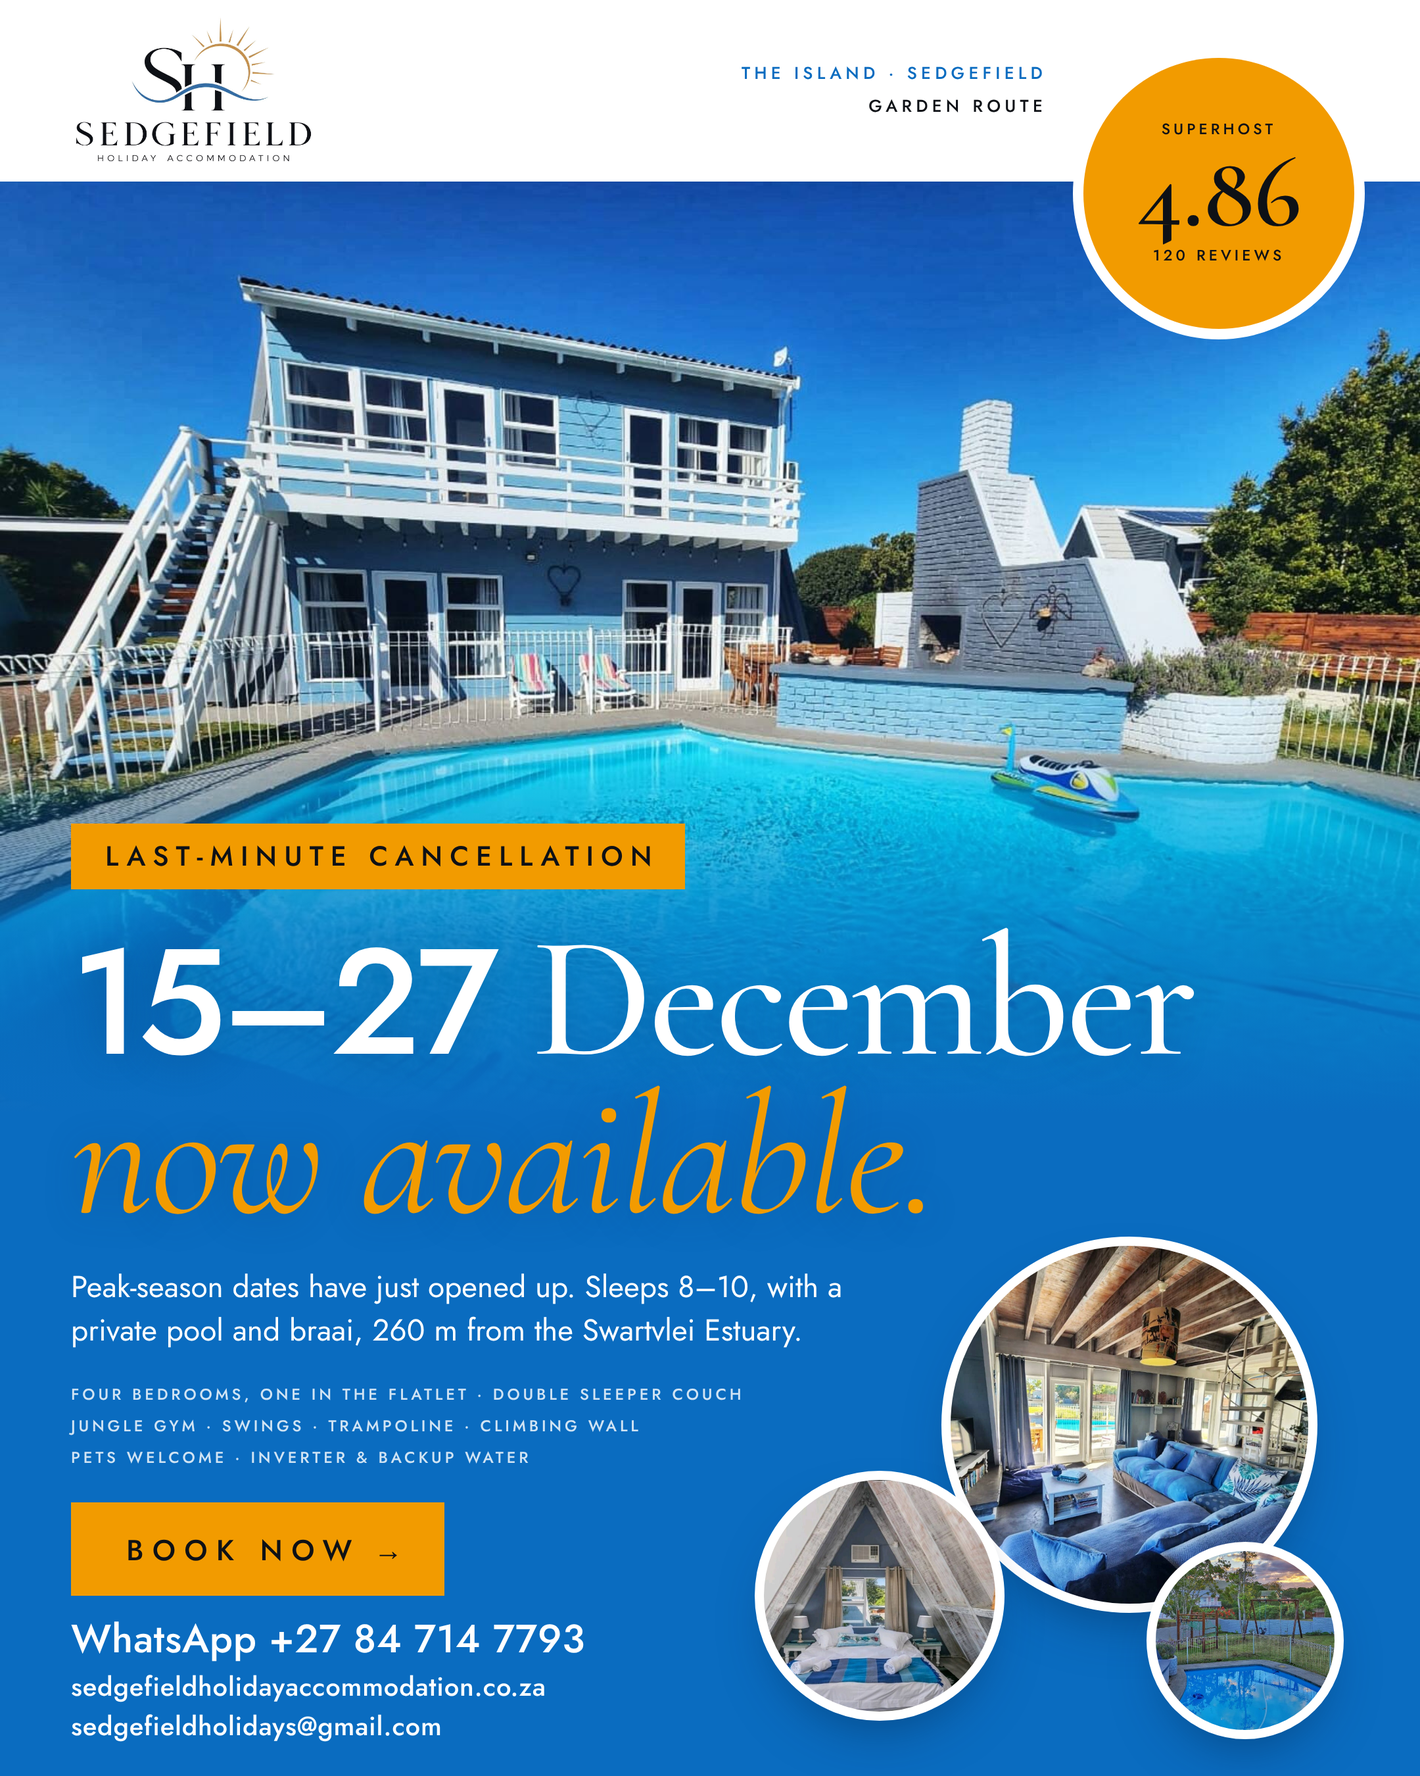
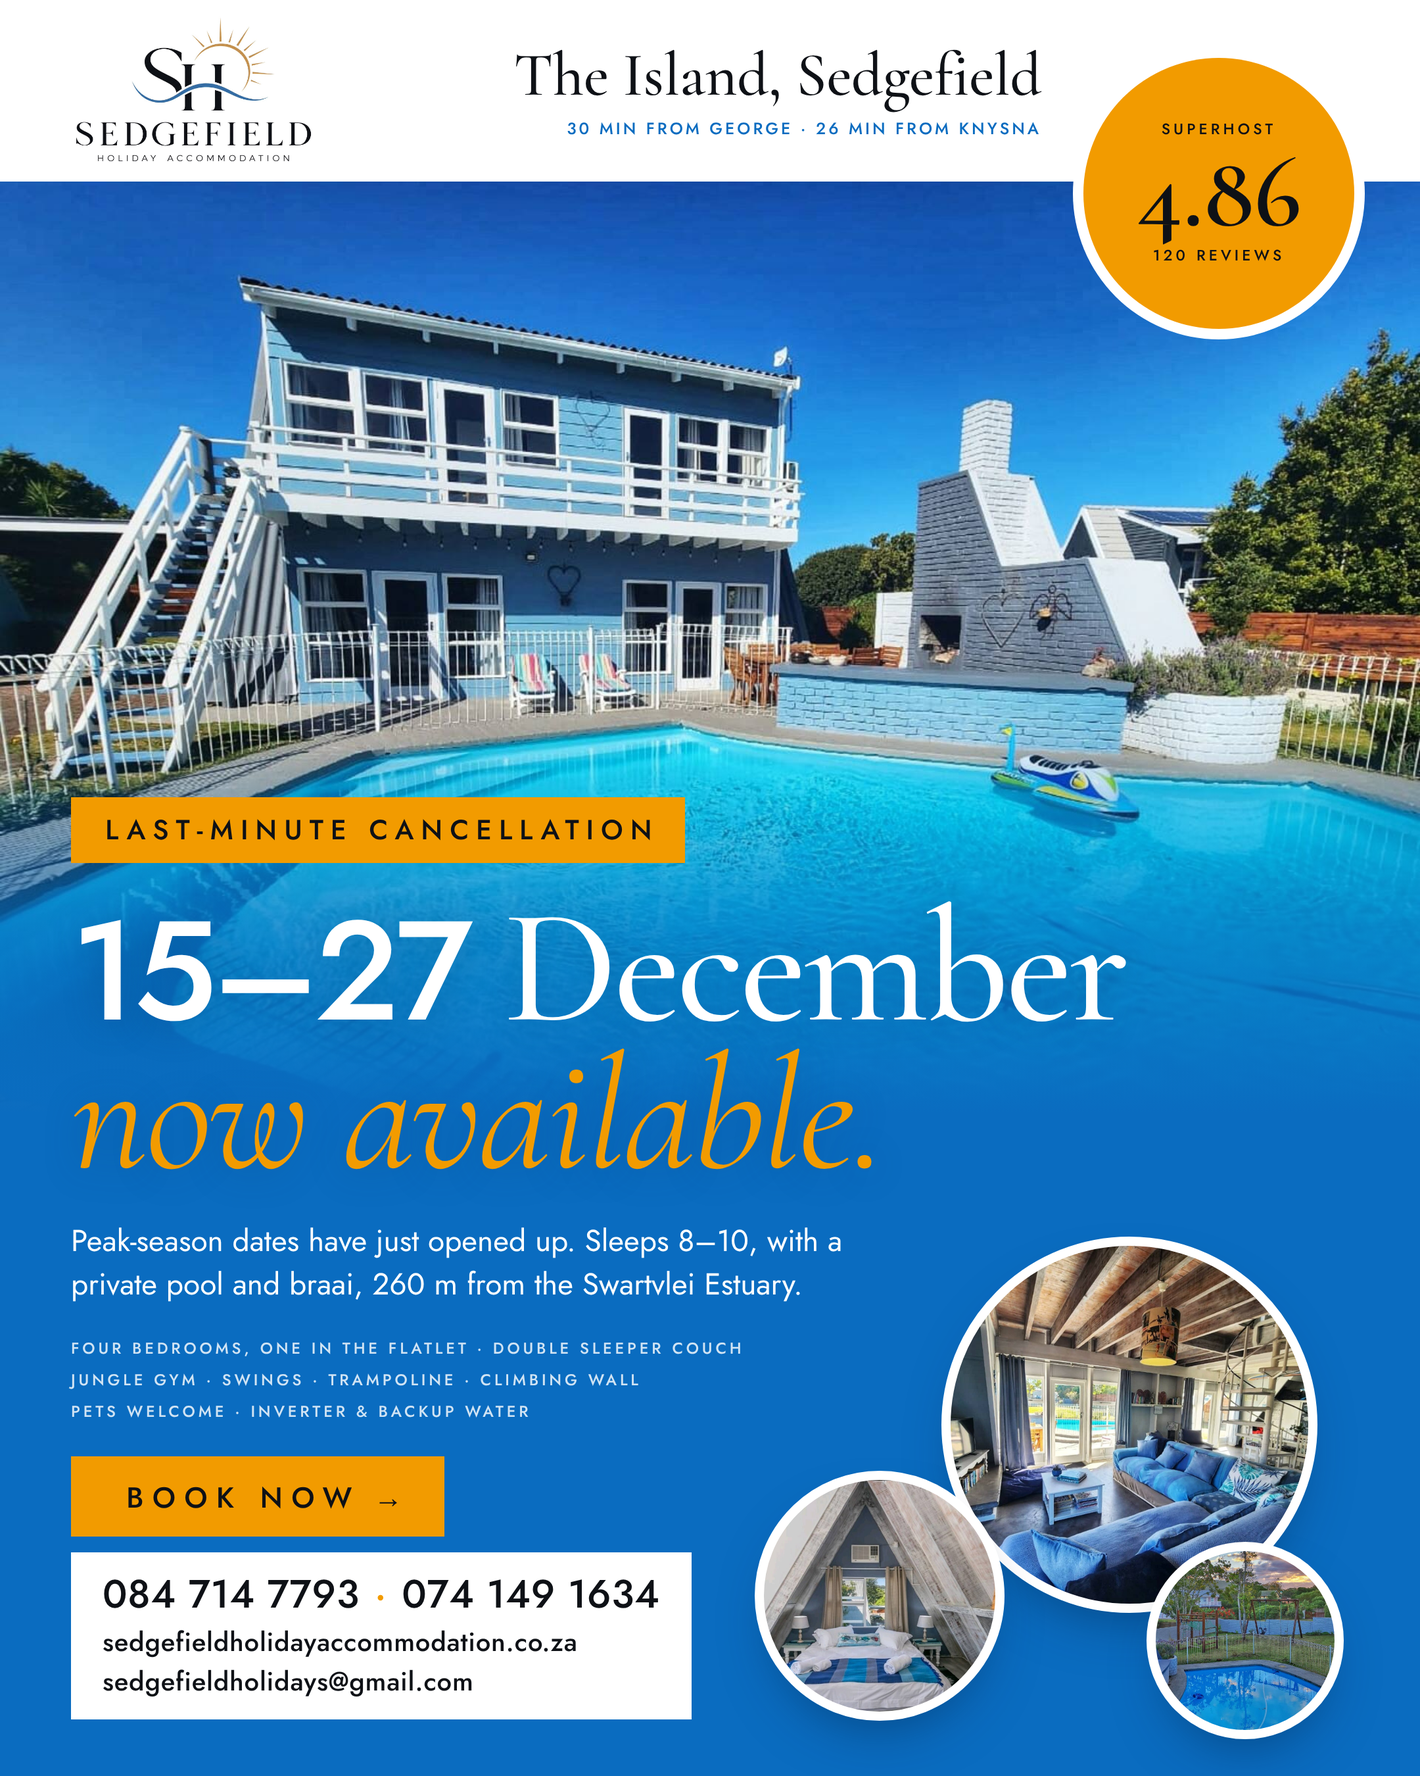
Adverts: both cell numbers, black contact text, The Island location with drive times
Claude-Session: https://claude.ai/code/session_018nYbKAdgBCf6cy6bucxAdr

Changed region(s): [[0.031, 0.4356, 0.8375, 0.9956], [0.3722, 0.0311, 0.7444, 0.0622]]

diff --git a/adverts/book-now/design-3-arches.html b/adverts/book-now/design-3-arches.html
@@ -12,35 +12,39 @@
 body{background:#fff;color:var(--ink);font-family:Jost,Arial,sans-serif}
 .ad{position:relative;width:1080px;height:1350px;background:#fff;overflow:hidden}
 .label{font:500 14px/1 Jost;letter-spacing:.24em;text-transform:uppercase}
-.sky{position:absolute;inset:0 0 auto 0;height:1136px;background:var(--blue)}
+.sky{position:absolute;inset:0 0 auto 0;height:1150px;background:var(--blue)}
 
 .top{position:absolute;left:0;right:0;top:50px;text-align:center;color:#fff}
 .tag{display:inline-block;background:var(--orange);color:var(--ink);font-size:21px;letter-spacing:.26em;padding:15px 22px 14px 28px}
-h1{font:500 138px/.9 Cormorant,Georgia,serif;letter-spacing:-.02em;white-space:nowrap;margin-top:22px}
+h1{font:500 126px/.9 Cormorant,Georgia,serif;letter-spacing:-.02em;white-space:nowrap;margin-top:22px}
 h1 span{font:500 .86em/1 Jost,Arial,sans-serif;letter-spacing:-.03em}
 h1 em{font-style:italic;font-weight:400;color:var(--orange);letter-spacing:-.01em}
-.intro{font:400 23px/1.42 Jost;margin:22px auto 0;width:700px;text-wrap:balance}
+.loc{margin-top:16px}
+.loc strong{display:block;font:500 50px/1 Cormorant,Georgia,serif}
+.loc .label{display:block;margin-top:11px;font-size:13px;letter-spacing:.18em}
+.intro{font:400 22px/1.42 Jost;margin:18px auto 0;width:700px;text-wrap:balance}
 
-.arch{position:absolute;bottom:214px;background:center/cover;border:6px solid #fff;border-bottom:0}
+.arch{position:absolute;bottom:200px;background:center/cover;border:6px solid #fff;border-bottom:0}
 .a1{left:46px;width:150px;height:296px;border-radius:75px 75px 0 0;background-image:url(assets/bar.jpg);background-position:34% 40%}
-.a2{left:208px;width:150px;height:420px;border-radius:75px 75px 0 0;background-image:url(assets/bedroom2.jpg);background-position:30% 50%}
-.a3{left:370px;width:340px;height:626px;border-radius:170px 170px 0 0;background-image:url(assets/pool.jpg);background-position:33% 50%}
-.a4{left:722px;width:150px;height:420px;border-radius:75px 75px 0 0;background-image:url(assets/junglegym.jpg);background-position:31% 50%}
+.a2{left:208px;width:150px;height:404px;border-radius:75px 75px 0 0;background-image:url(assets/bedroom2.jpg);background-position:30% 50%}
+.a3{left:370px;width:340px;height:598px;border-radius:170px 170px 0 0;background-image:url(assets/pool.jpg);background-position:33% 50%}
+.a4{left:722px;width:150px;height:404px;border-radius:75px 75px 0 0;background-image:url(assets/junglegym.jpg);background-position:31% 50%}
 .a5{left:884px;width:150px;height:296px;border-radius:75px 75px 0 0;background-image:url(assets/living.jpg);background-position:62% 60%}
 
-.feat{position:absolute;left:54px;top:522px;width:290px;color:#fff;font-size:12px;letter-spacing:.2em;line-height:1.95}
+.feat{position:absolute;left:54px;top:566px;width:290px;color:#fff;font-size:12px;letter-spacing:.2em;line-height:1.95}
 .feat i{display:block;width:44px;height:3px;background:var(--orange);margin-bottom:14px}
-.sun{position:absolute;left:800px;top:520px;width:176px;height:176px;border-radius:50%;background:var(--orange);color:var(--ink);display:flex;flex-direction:column;align-items:center;justify-content:center}
+.sun{position:absolute;left:800px;top:562px;width:176px;height:176px;border-radius:50%;background:var(--orange);color:var(--ink);display:flex;flex-direction:column;align-items:center;justify-content:center}
 .sun .label{font-size:10.5px;letter-spacing:.2em}
 .sun strong{font:600 66px/.9 Cormorant,Georgia,serif;margin:5px 0 7px}
 
-.foot{position:absolute;left:40px;right:54px;bottom:0;height:214px;display:flex;justify-content:space-between;align-items:center}
+.foot{position:absolute;left:40px;right:54px;bottom:0;height:200px;display:flex;justify-content:space-between;align-items:center}
 .logo{height:158px;mix-blend-mode:multiply}
 .cta{text-align:right}
 .btn{display:inline-block;background:var(--orange);color:var(--ink);font:500 22px/1 Jost;letter-spacing:.3em;text-transform:uppercase;padding:21px 34px 20px 44px}
 .btn b{font-weight:500;margin-left:10px;letter-spacing:0}
 .tel{font:500 30px/1 Jost;letter-spacing:.01em;margin-top:14px;color:var(--ink)}
-.web{font:500 20px/1 Jost;letter-spacing:.02em;margin-top:8px;color:var(--blue)}
+.web{font:500 20px/1 Jost;letter-spacing:.02em;margin-top:8px;color:var(--ink)}
+.tel i{font-style:normal;color:var(--orange);margin:0 2px}
 .tel + .web{margin-top:11px}
 </style></head>
 <body>
@@ -49,6 +53,7 @@ h1 em{font-style:italic;font-weight:400;color:var(--orange);letter-spacing:-.01e
   <div class="top">
     <div class="label tag">Last-minute cancellation</div>
     <h1><span>15–27</span> December<br><em>now available.</em></h1>
+    <p class="loc"><strong>The Island, Sedgefield</strong><span class="label">30 min from George · 26 min from Knysna</span></p>
     <p class="intro">Peak-season dates have just opened up. Sleeps 8–10, with a private pool and braai, 260&nbsp;m from the Swartvlei Estuary.</p>
   </div>
 
@@ -61,7 +66,7 @@ h1 em{font-style:italic;font-weight:400;color:var(--orange);letter-spacing:-.01e
     <img class="logo" src="assets/logo.jpg" alt="Sedgefield Holiday Accommodation">
     <div class="cta">
       <span class="btn">Book now<b>→</b></span>
-      <p class="tel">WhatsApp +27 84 714 7793</p>
+      <p class="tel">084 714 7793 <i>·</i> 074 149 1634</p>
       <p class="web">sedgefieldholidayaccommodation.co.za</p>
       <p class="web">sedgefieldholidays@gmail.com</p>
     </div>

diff --git a/adverts/book-now/design-1-pool-circles.html b/adverts/book-now/design-1-pool-circles.html
@@ -15,8 +15,9 @@ body{background:#fff;color:var(--ink);font-family:Jost,Arial,sans-serif}
 
 .head{position:absolute;inset:0 0 auto 0;height:138px;background:#fff;padding:0 54px 0 40px;display:flex;align-items:center;justify-content:space-between}
 .logo{height:118px;mix-blend-mode:multiply}
-.head .label{color:var(--blue);margin-right:230px;text-align:right;line-height:1.9;font-size:13px}
-.head .label span{color:var(--ink)}
+.loc{margin-right:234px;text-align:right}
+.loc strong{display:block;font:500 47px/1 Cormorant,Georgia,serif;letter-spacing:-.005em;color:var(--ink)}
+.loc .label{display:block;margin-top:11px;font-size:12.5px;letter-spacing:.16em;color:var(--blue)}
 
 .hero{position:absolute;inset:138px 0 auto 0;height:730px;background:url(assets/pool.jpg) center 30%/cover}
 .hero::after{content:"";position:absolute;inset:0;background:linear-gradient(#0A6CC000 58%,#0A6CC0b0 78%,#0A6CC0 97%)}
@@ -26,16 +27,19 @@ body{background:#fff;color:var(--ink);font-family:Jost,Arial,sans-serif}
 .sun strong{font:600 78px/.9 Cormorant,Georgia,serif;margin:6px 0 8px}
 
 
-.copy{position:absolute;left:54px;top:626px;color:#fff}
+.copy{position:absolute;left:54px;top:606px;color:#fff}
+.card{background:#fff;color:var(--ink);display:block;width:max-content;margin-top:12px;padding:17px 24px 18px}
+.card .tel{margin-top:0}
+.tel i{font-style:normal;color:var(--orange);margin:0 2px}
 .tag{display:inline-block;background:var(--orange);color:var(--ink);font-size:21px;letter-spacing:.26em;padding:15px 20px 14px 26px;margin-bottom:24px}
 .kicker{display:flex;align-items:center;gap:14px;margin-bottom:18px;text-shadow:0 1px 10px #05386a80}
 .kicker i{display:block;width:44px;height:3px;background:var(--orange)}
-h1{font:500 132px/.9 Cormorant,Georgia,serif;letter-spacing:-.02em;white-space:nowrap;text-shadow:0 2px 30px #05386a55}
+h1{font:500 124px/.9 Cormorant,Georgia,serif;letter-spacing:-.02em;white-space:nowrap;text-shadow:0 2px 30px #05386a55}
 h1 span{font:500 .86em/1 Jost,Arial,sans-serif;letter-spacing:-.03em}
 h1 em{font-style:italic;font-weight:400;color:var(--orange);letter-spacing:-.01em}
 .intro{font:400 23px/1.42 Jost;margin-top:24px;width:650px}
 .feat{margin-top:20px;width:640px;white-space:nowrap;font-size:12px;letter-spacing:.2em;line-height:2;color:#ffffffd0}
-.btn{display:inline-block;margin-top:22px;background:var(--orange);color:var(--ink);font:500 22px/1 Jost;letter-spacing:.3em;text-transform:uppercase;padding:25px 32px 24px 42px}
+.btn{display:inline-block;margin-top:22px;background:var(--orange);color:var(--ink);font:500 22px/1 Jost;letter-spacing:.3em;text-transform:uppercase;padding:20px 32px 19px 42px}
 .btn b{font-weight:500;margin-left:10px;letter-spacing:0}
 .tel{margin-top:18px;font:500 30px/1 Jost;letter-spacing:.01em}
 .web{margin-top:10px;font:500 20px/1 Jost;letter-spacing:.02em}
@@ -51,7 +55,7 @@ h1 em{font-style:italic;font-weight:400;color:var(--orange);letter-spacing:-.01e
   <div class="hero"></div>
   <div class="head">
     <img class="logo" src="assets/logo.jpg" alt="Sedgefield Holiday Accommodation">
-    <div class="label">The Island · Sedgefield<br><span>Garden Route</span></div>
+    <div class="loc"><strong>The Island, Sedgefield</strong><span class="label">30 min from George · 26 min from Knysna</span></div>
   </div>
   <div class="sun"><span class="label">Superhost</span><strong>4.86</strong><span class="label">120 reviews</span></div>
 
@@ -62,9 +66,11 @@ h1 em{font-style:italic;font-weight:400;color:var(--orange);letter-spacing:-.01e
     <p class="intro">Peak-season dates have just opened up. Sleeps 8–10, with a private pool and braai, 260&nbsp;m from the Swartvlei Estuary.</p>
     <p class="label feat">Four bedrooms, one in the flatlet · Double sleeper couch<br>Jungle gym · Swings · Trampoline · Climbing wall<br>Pets welcome · Inverter &amp; backup water</p>
     <span class="btn">Book now<b>→</b></span>
-    <p class="tel">WhatsApp +27 84 714 7793</p>
-    <p class="web">sedgefieldholidayaccommodation.co.za</p>
-    <p class="web">sedgefieldholidays@gmail.com</p>
+    <div class="card">
+      <p class="tel">084 714 7793 <i>·</i> 074 149 1634</p>
+      <p class="web">sedgefieldholidayaccommodation.co.za</p>
+      <p class="web">sedgefieldholidays@gmail.com</p>
+    </div>
   </div>
 
   <div class="c c1"></div><div class="c c2"></div><div class="c c3"></div>

diff --git a/adverts/book-now/design-2-pool-photo-strip.html b/adverts/book-now/design-2-pool-photo-strip.html
@@ -15,8 +15,9 @@ body{background:#fff;color:var(--ink);font-family:Jost,Arial,sans-serif}
 
 .head{position:absolute;inset:0 0 auto 0;height:138px;background:#fff;padding:0 54px 0 40px;display:flex;align-items:center;justify-content:space-between}
 .logo{height:118px;mix-blend-mode:multiply}
-.head .label{color:var(--blue);margin-right:230px;text-align:right;line-height:1.9;font-size:13px}
-.head .label span{color:var(--ink)}
+.loc{margin-right:234px;text-align:right}
+.loc strong{display:block;font:500 47px/1 Cormorant,Georgia,serif;letter-spacing:-.005em;color:var(--ink)}
+.loc .label{display:block;margin-top:11px;font-size:12.5px;letter-spacing:.16em;color:var(--blue)}
 
 .hero{position:absolute;inset:138px 0 auto 0;height:660px;background:url(assets/pool.jpg) center 52%/cover}
 .hero::after{content:"";position:absolute;inset:0;background:linear-gradient(#0A6CC000 58%,#0A6CC0b0 78%,#0A6CC0 97%)}
@@ -42,7 +43,11 @@ h1 em{font-style:italic;font-weight:400;color:var(--orange);letter-spacing:-.01e
 .tel + .web{margin-top:12px}
 .contact + .contact{margin-top:10px;font:400 17px/1 Jost;letter-spacing:.04em;text-transform:none;color:#ffffffe0}
 
-.cta{position:absolute;right:54px;top:918px;width:400px;white-space:nowrap;color:#fff;text-align:center}
+.card{background:#fff;color:var(--ink);margin-top:8px;padding:13px 8px 14px}
+.card .tel{margin-top:0}
+.tel i{font-style:normal;color:var(--orange);margin:0 2px}
+.tel + .tel{margin-top:8px}
+.cta{position:absolute;right:54px;top:912px;width:400px;white-space:nowrap;color:#fff;text-align:center}
 .strip{position:absolute;left:0;right:0;bottom:0;height:206px;display:flex;gap:6px;border-top:6px solid #fff;background:#fff}
 .strip i{flex:1;background:center/cover}
 </style></head>
@@ -51,7 +56,7 @@ h1 em{font-style:italic;font-weight:400;color:var(--orange);letter-spacing:-.01e
   <div class="hero"></div>
   <div class="head">
     <img class="logo" src="assets/logo.jpg" alt="Sedgefield Holiday Accommodation">
-    <div class="label">The Island · Sedgefield<br><span>Garden Route</span></div>
+    <div class="loc"><strong>The Island, Sedgefield</strong><span class="label">30 min from George · 26 min from Knysna</span></div>
   </div>
   <div class="sun"><span class="label">Superhost</span><strong>4.86</strong><span class="label">120 reviews</span></div>
 
@@ -65,9 +70,12 @@ h1 em{font-style:italic;font-weight:400;color:var(--orange);letter-spacing:-.01e
 
   <div class="cta">
     <span class="btn">Book now<b>→</b></span>
-    <p class="tel">WhatsApp +27 84 714 7793</p>
-    <p class="web">sedgefieldholidayaccommodation.co.za</p>
-    <p class="web">sedgefieldholidays@gmail.com</p>
+    <div class="card">
+      <p class="tel">084 714 7793</p>
+      <p class="tel">074 149 1634</p>
+      <p class="web">sedgefieldholidayaccommodation.co.za</p>
+      <p class="web">sedgefieldholidays@gmail.com</p>
+    </div>
   </div>
 
   <div class="strip">

diff --git a/adverts/book-now/design-4-collage-orange.html b/adverts/book-now/design-4-collage-orange.html
@@ -21,6 +21,9 @@ h1 em{font-style:italic;font-weight:400;color:var(--ink);letter-spacing:-.01em}
 .intro{font:400 24px/1.4 Jost;margin-top:24px;width:900px}
 .feat{margin-top:16px;font-size:12px;letter-spacing:.19em;line-height:1.95;white-space:nowrap}
 
+.loc{position:absolute;right:54px;top:44px;text-align:right;color:var(--ink)}
+.loc strong{display:block;font:500 46px/1 Cormorant,Georgia,serif}
+.loc .label{display:block;margin-top:10px;font-size:12px;letter-spacing:.15em}
 .ph{position:absolute;border:9px solid #fff;background:center/cover;box-shadow:0 22px 40px -18px #5a2d00b0}
 .p1{left:48px;top:560px;width:640px;height:478px;transform:rotate(-2.5deg);background-image:url(assets/pool.jpg)}
 .p2{left:712px;top:540px;width:318px;height:238px;transform:rotate(3deg);background-image:url(assets/living.jpg);background-position:60% 60%}
@@ -37,7 +40,8 @@ h1 em{font-style:italic;font-weight:400;color:var(--ink);letter-spacing:-.01em}
 .btn{display:inline-block;background:var(--blue);color:#fff;font:500 21px/1 Jost;letter-spacing:.3em;text-transform:uppercase;padding:19px 32px 18px 42px}
 .btn b{font-weight:500;margin-left:10px;letter-spacing:0;color:var(--orange)}
 .tel{font:500 30px/1 Jost;letter-spacing:.01em;margin-top:12px;color:var(--ink)}
-.web{font:500 20px/1 Jost;letter-spacing:.02em;margin-top:8px;color:var(--blue)}
+.web{font:500 20px/1 Jost;letter-spacing:.02em;margin-top:8px;color:var(--ink)}
+.tel i{font-style:normal;color:var(--orange);margin:0 2px}
 .tel + .web{margin-top:11px}
 </style></head>
 <body>
@@ -49,6 +53,7 @@ h1 em{font-style:italic;font-weight:400;color:var(--ink);letter-spacing:-.01em}
     <p class="label feat">Four bedrooms, one in the flatlet · Double sleeper couch · Pets welcome<br>Jungle gym · Swings · Trampoline · Climbing wall · Inverter &amp; backup water</p>
   </div>
 
+  <p class="loc"><strong>The Island, Sedgefield</strong><span class="label">30 min from George · 26 min from Knysna</span></p>
   <div class="ph p2"></div><div class="ph p3"></div><div class="ph p1"></div><div class="ph p4"></div><div class="ph p5"></div>
   <div class="sun"><span class="label">Superhost</span><strong>4.86</strong><span class="label">120 reviews</span></div>
 
@@ -56,7 +61,7 @@ h1 em{font-style:italic;font-weight:400;color:var(--ink);letter-spacing:-.01em}
     <img class="logo" src="assets/logo.jpg" alt="Sedgefield Holiday Accommodation">
     <div class="cta">
       <span class="btn">Book now<b>→</b></span>
-      <p class="tel">WhatsApp +27 84 714 7793</p>
+      <p class="tel">084 714 7793 <i>·</i> 074 149 1634</p>
       <p class="web">sedgefieldholidayaccommodation.co.za</p>
       <p class="web">sedgefieldholidays@gmail.com</p>
     </div>

diff --git a/adverts/book-now/design-5-collage-blue.html b/adverts/book-now/design-5-collage-blue.html
@@ -21,6 +21,9 @@ h1 em{font-style:italic;font-weight:400;color:var(--orange);letter-spacing:-.01e
 .intro{font:400 24px/1.4 Jost;margin-top:24px;width:900px}
 .feat{margin-top:16px;font-size:12px;letter-spacing:.19em;line-height:1.95;white-space:nowrap}
 
+.loc{position:absolute;right:54px;top:44px;text-align:right;color:#fff}
+.loc strong{display:block;font:500 46px/1 Cormorant,Georgia,serif}
+.loc .label{display:block;margin-top:10px;font-size:12px;letter-spacing:.15em}
 .ph{position:absolute;border:9px solid #fff;background:center/cover;box-shadow:0 22px 40px -18px #021c3ad0}
 .p1{left:48px;top:560px;width:640px;height:478px;transform:rotate(-2.5deg);background-image:url(assets/pool.jpg)}
 .p2{left:712px;top:540px;width:318px;height:238px;transform:rotate(3deg);background-image:url(assets/living.jpg);background-position:60% 60%}
@@ -37,7 +40,8 @@ h1 em{font-style:italic;font-weight:400;color:var(--orange);letter-spacing:-.01e
 .btn{display:inline-block;background:var(--orange);color:var(--ink);font:500 21px/1 Jost;letter-spacing:.3em;text-transform:uppercase;padding:19px 32px 18px 42px}
 .btn b{font-weight:500;margin-left:10px;letter-spacing:0}
 .tel{font:500 30px/1 Jost;letter-spacing:.01em;margin-top:12px;color:var(--ink)}
-.web{font:500 20px/1 Jost;letter-spacing:.02em;margin-top:8px;color:var(--blue)}
+.web{font:500 20px/1 Jost;letter-spacing:.02em;margin-top:8px;color:var(--ink)}
+.tel i{font-style:normal;color:var(--orange);margin:0 2px}
 .tel + .web{margin-top:11px}
 </style></head>
 <body>
@@ -49,6 +53,7 @@ h1 em{font-style:italic;font-weight:400;color:var(--orange);letter-spacing:-.01e
     <p class="label feat">Four bedrooms, one in the flatlet · Double sleeper couch · Pets welcome<br>Jungle gym · Swings · Trampoline · Climbing wall · Inverter &amp; backup water</p>
   </div>
 
+  <p class="loc"><strong>The Island, Sedgefield</strong><span class="label">30 min from George · 26 min from Knysna</span></p>
   <div class="ph p2"></div><div class="ph p3"></div><div class="ph p1"></div><div class="ph p4"></div><div class="ph p5"></div>
   <div class="sun"><span class="label">Superhost</span><strong>4.86</strong><span class="label">120 reviews</span></div>
 
@@ -56,7 +61,7 @@ h1 em{font-style:italic;font-weight:400;color:var(--orange);letter-spacing:-.01e
     <img class="logo" src="assets/logo.jpg" alt="Sedgefield Holiday Accommodation">
     <div class="cta">
       <span class="btn">Book now<b>→</b></span>
-      <p class="tel">WhatsApp +27 84 714 7793</p>
+      <p class="tel">084 714 7793 <i>·</i> 074 149 1634</p>
       <p class="web">sedgefieldholidayaccommodation.co.za</p>
       <p class="web">sedgefieldholidays@gmail.com</p>
     </div>
